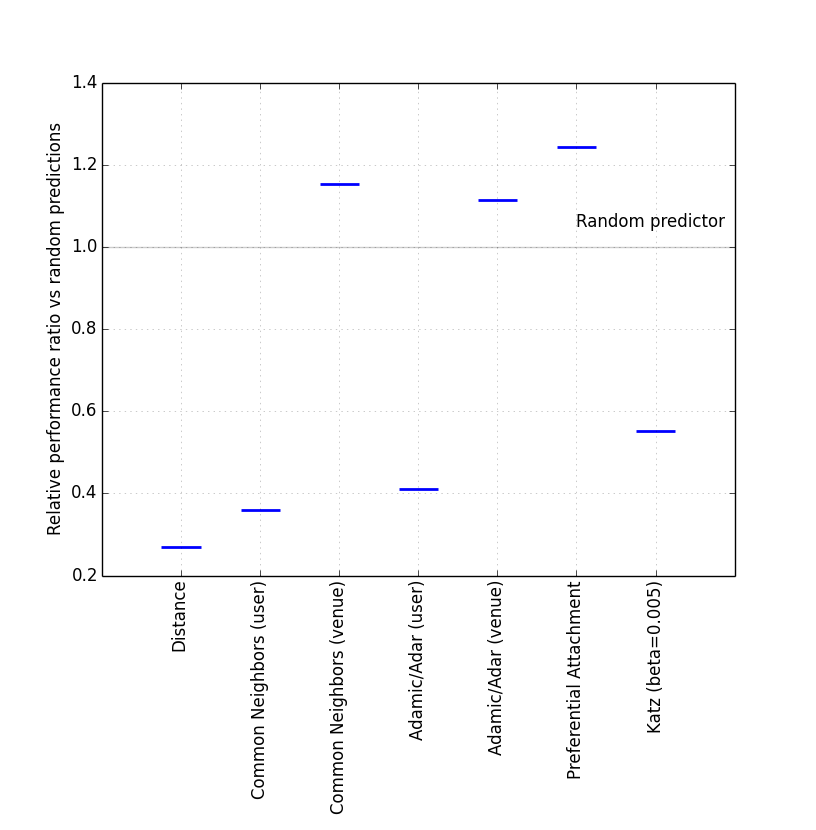
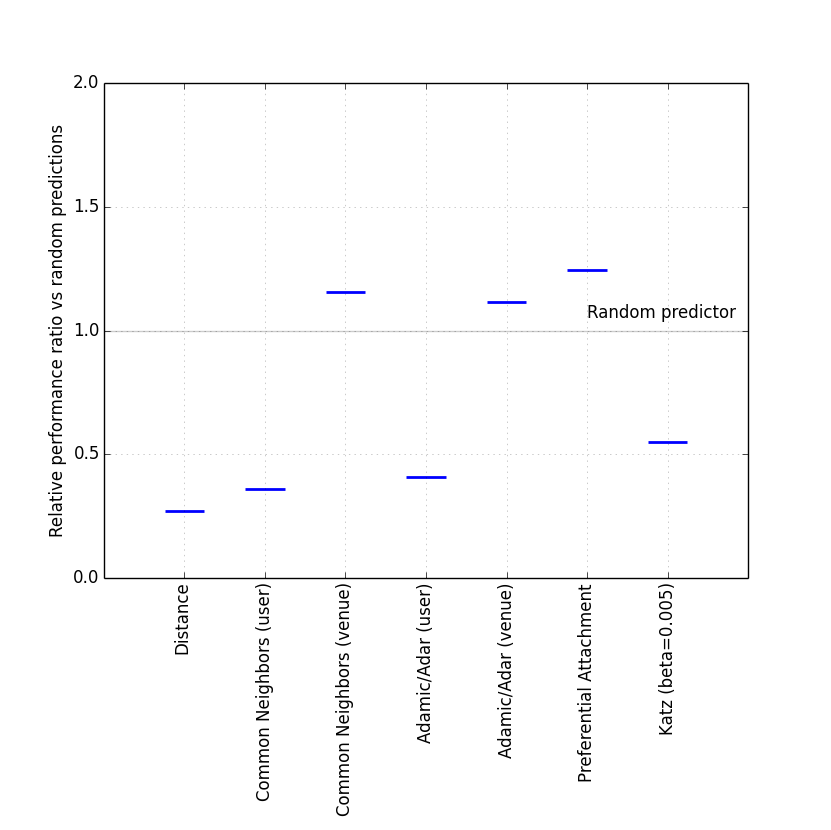
Update plots

diff --git a/code/plot.py b/code/plot.py
@@ -13,6 +13,9 @@ def plot(recalls):
     plt.xticks([i+1 for i in range(len(recalls) - 1)], heuristics[1:], rotation='vertical')
     plt.text(s='Random predictor', x=6, y=1.05)
     plt.ylabel('Relative performance ratio vs random predictions')
+    bot_lim = int(min(relative_performance) - 1)
+    top_lim = int(max(relative_performance) + 1)
+    plt.ylim((bot_lim, top_lim))
     plt.show()
 
 def main():
